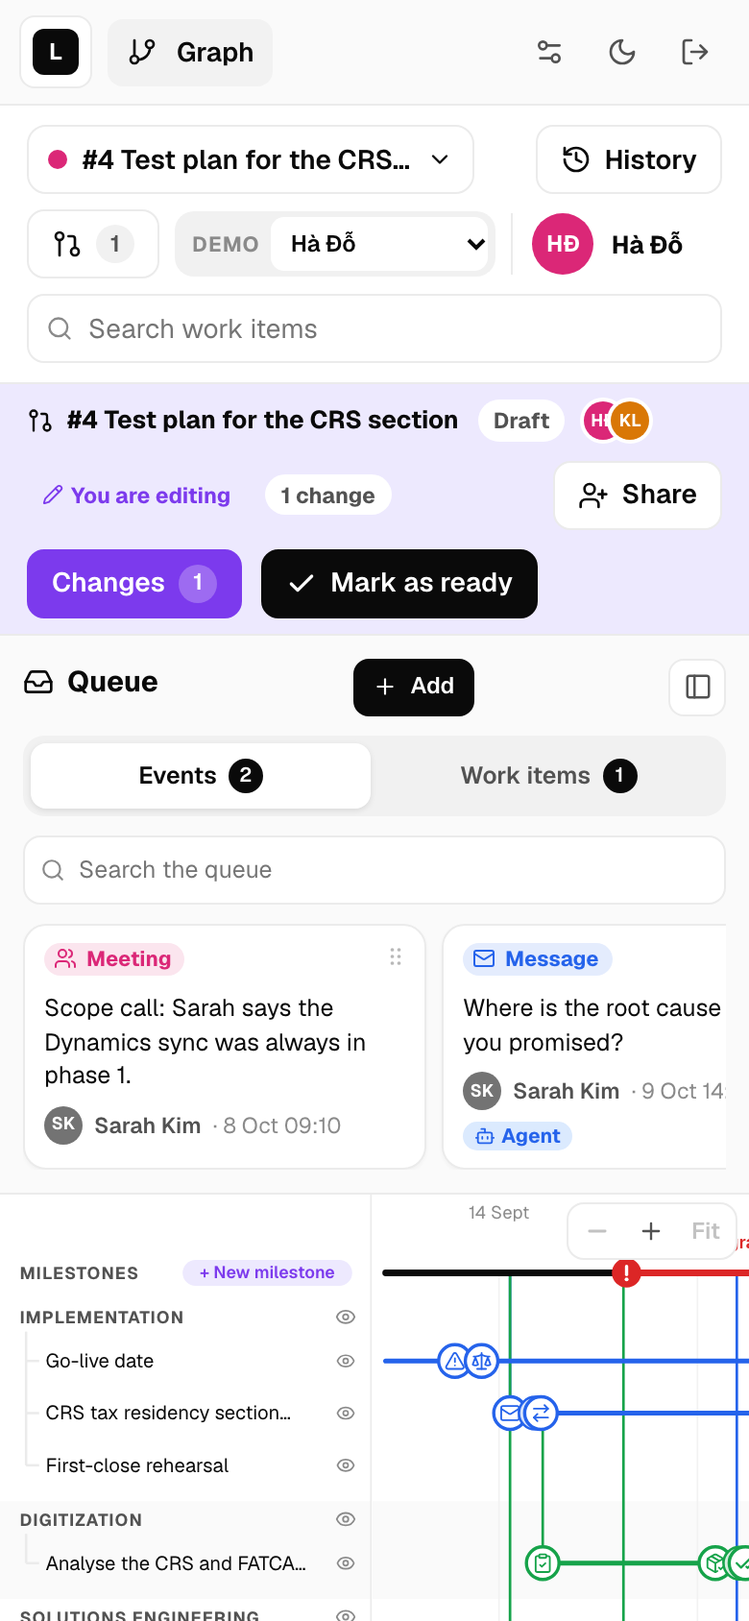
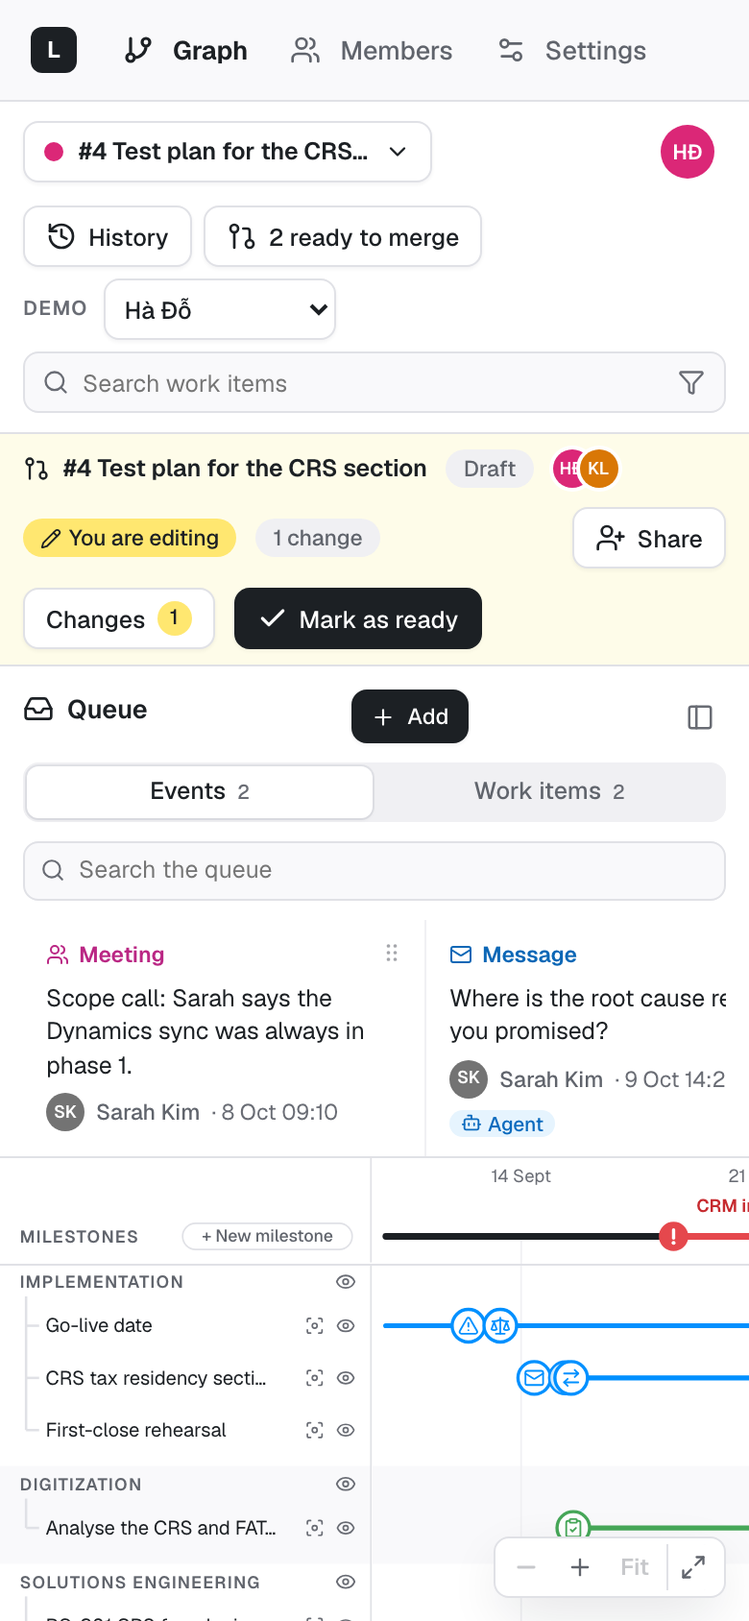
docs: members, roles, account menu and the new top bar in the spec and README
The screenshots are new, and a Members screenshot joins them.

diff --git a/docs/superpowers/specs/2026-10-16-event-tracker-design.md b/docs/superpowers/specs/2026-10-16-event-tracker-design.md
@@ -31,7 +31,7 @@ Promise Graph becomes an event tracker for a whole project. It shows what happen
    - The T line is a solid thin grey line. No line on the graph is dashed or dotted.
 9. No breakdown types and no day-count rules (no reply, accept, hedge or at-risk windows).
 10. Projects: a signed-in user creates a project (client, project name, teams one per line, optional first milestone with date). Each project has one Main graph. The creator owns Main. A team can also be added later through a change request.
-11. Main is read-only, and so is every view that the acting member cannot edit: someone else's draft, a ready, merged or closed CR, and a viewer. Such a view has no drag and drop that changes the graph (only the sideways move of decision 5), no edit buttons in pops and drawers, and no "+" buttons; pops and drawers show the information only. On entering Main, a notice at the top says "Main is read-only. To change it, create a change request." with a close × and Don't show again (the context bar holds New change request) (kept per user in `localStorage`). In other read-only CR views, the context bar says what to do (Ask to edit, Edit again, Review).
+11. Main is read-only, and so is every view that the acting member cannot edit: someone else's draft, a ready, merged or closed CR, and a viewer. Such a view has no drag and drop that changes the graph (only the sideways move of decision 5), no edit buttons in pops and drawers, and no "+" buttons; pops and drawers show the information only. On entering Main, a notice at the top says "Main is read-only. To change it, create a change request." with a close × and Don't show again (the top bar holds New change request) (kept per user in `localStorage`). The Main selector itself says that Main is read-only and names its owner with a small avatar ("Owner: Minh Trần"); Main has no second row with that sentence. In other read-only CR views, the context bar says what to do (Ask to edit, Edit again, Review).
 12. Change request (CR): statuses Draft, Ready, Merged, Closed. Numbered per project (#1, #2...). A CR view always shows the latest Main plus the CR's own changes. There is no Sync.
 13. Share: the current editor adds people with Can edit or Can view. Everyone in the project can view every CR.
 14. One editor at a time. The author edits first. A person with Can edit (or the author) presses Ask to edit; the current editor presses Hand over or Not now. The editor can also hand over without an ask (Share, Hand over). Asks wait; nothing moves editing automatically.
@@ -39,7 +39,8 @@ Promise Graph becomes an event tracker for a whole project. It shows what happen
 16. The owner of Main reviews a CR on a full-page review screen: Changes (one card per change with red before and green after lines, the event quote, the reason of a date move, a Viewed box, per-change comments, Show on graph), On the graph (Before and After, the picked change in a neutral grey band, changes marked in yellow), Conversation (timeline and comments). Owner actions on a Ready CR: Merge into Main, Request changes (back to Draft with a note), Close without merging.
 17. Clash: a CR change clashes when Main took a different change on the same spot after the CR change was made. Spots (keys): queue event placement `event:<id>`, queue item placement `item:<id>`, event `act:<id>`, work item `loop:<id>:title`, `loop:<id>:ms`, `loop:<id>:due`, milestone `ms:<id>:date`, `ms:<id>:name`. Two different fields of one work item never clash. An identical change already in Main is dropped silently. The owner picks Main or the CR for every clash before Merge; the merge records each pick (label, kept value, dropped value, source CR number, who).
 18. A merged or closed CR is read-only history. History lists every merge into Main, newest first: CR, author, merger, time, changes, resolutions, with See changes and Open graph. Open graph shows Main right after that merge.
-19. Demo: each signed-in user gets a sandbox with the Larkspur demo project. In a demo project, a "Demo · Working as" select switches the acting member (Minh Trần owns Main; Lan Phạm, Quang Nguyễn, Hà Đỗ, Khoa Lê). Outside demo projects, the acting member is the signed-in user's member. The top right shows the acting member: avatar, name, role.
+19. Demo: each signed-in user gets a sandbox with the Larkspur demo project. In a demo project, a "Demo · Working as" select switches the acting member (Minh Trần owns Main; Lan Phạm, Quang Nguyễn, Hà Đỗ, Khoa Lê). Only the person of the sandbox (a member of its workspace) sees the select; a person invited into a demo project works as themself. Outside demo projects, the acting member is the signed-in user's member. The top right shows the acting member (avatar, name and role; on a laptop, the avatar only). A click on it opens a menu with the name, Theme (System, Light, Dark) and Sign out.
+20. Members and roles (round 6, owner request 17 Oct): a project has an Owner (the owner of Main), Members and Viewers. The owner merges change requests and manages the members; a member creates change requests and adds to the Queue; a viewer reads the project only (no acting member, as decision 11). The Members page lists every member with the avatar, name, email when known and role. Only the owner invites a person by email (Member or Viewer), changes a role, makes another member the owner (a confirm modal; the old owner becomes a member) and removes a member (a confirm modal). The owner cannot remove themself or take away their own role. An invite waits as a member row with the email until a person signs in with that email; the sign-in links it. A project opens to the people of its workspace and to its own members that are not removed, so an invite opens one project, not the workspace.
 
 ## 3. Architecture
 
@@ -101,14 +102,14 @@ The queue in the state: `initial = base + all queue rows that are not dismissed`
 - `layoutTracker(state, view, marks?)` returns a render model: lanes, rows (with `depth` for the indent and `dimmed` for filter context), line segments with colours, event groups (icons stacked when closer than 16 units, with every id), milestone circles with 2 label levels, deadline diamonds on member rows (`deadlines`), ↖ chips for hidden sources (`chips`), trunk segments, one handoff mark per source row (`handoffs`, each with its `targets`), the T line and the axis ticks. It draws no stems and no curves. A row with a hidden parent or source gets a chip; a parent or source outside the focus or the filters gets none. `view = { hiddenRows, hiddenTeams, asOf, timeZone, zoom, offsets, windowStart, focus, filter }`, where `filter` is the `{ match, context }` that `matchRows` (`src/tracker/filter.ts`) gives. `focusTree` and `descendantsOf` (`src/tracker/focus.ts`) give the focus tree and its ids. An event is drawn at its time plus the offset of the viewer, clamped to its day and kept in the time order of its row and day (`drawnTimes` in `src/tracker/offsets.ts`, events with the same time in id order; `clampDrag` limits a sideways drag the same way, and when no whole minute fits between the two neighbours it takes the side of the earlier one), and the stacks use the drawn x. Default window: from `project.windowStart` (or 21 days before the earliest open item's start) to the later of `asOf + 7 days` and the latest planned date + 3 days.
 - Geometry: viewBox width 1060, a fixed label column of 228 units (`SIDE`), row 32, head 22, indent 12. At zoom 1 the label column and the time line fill the width. `zoom` (1 to 12) stretches only the time line, which scrolls on its own while the label column stays put. Everything above `TOP` (64: the axis, the T pill and the milestone line with its labels) is drawn in its own pinned band. The axis ticks every day once a day is 60 units wide. The graph scales to the container width.
 
-### 3.5 Storage (migrations `0004_tracker.sql` and `0006_event_offsets.sql`, Drizzle in `src/server/db/schema.ts`)
+### 3.5 Storage (migrations `0004_tracker.sql`, `0006_event_offsets.sql` and `0007_project_members.sql`, Drizzle in `src/server/db/schema.ts`)
 
 All tables carry `workspace_id` and `project_id` with the existing composite foreign key pattern (`inProject`).
 
 | Table | Columns |
 |---|---|
 | `tracker_projects` | `project_id` PK, `workspace_id`, `base` jsonb (TrackerState without queue), `time_zone` text default `Asia/Ho_Chi_Minh`, `window_start` date null, `as_of` timestamptz null (demo clock; null = now), `demo` bool, `owner_member_id` uuid |
-| `tracker_members` | `id` PK, `workspace_id`, `project_id`, `name`, `role_label`, `color`, `user_id` null FK users, `created_at` |
+| `tracker_members` | `id` PK, `workspace_id`, `project_id`, `name`, `role_label`, `color`, `user_id` null FK users, `email` null (lower case; an invite has an email and no `user_id`), `access` (`member`/`viewer`), `removed_at` null (a removed member keeps its row, because CRs and history name it), `created_at`; unique (`project_id`, `user_id`) and (`project_id`, `email`) |
 | `tracker_queue` | `id` PK, `workspace_id`, `project_id`, `kind` (`event`/`item`), `payload` jsonb, `added_by_member` null, `added_by_agent` bool, `created_at`, `dismissed_at` null |
 | `tracker_commits` | `workspace_id`, `project_id`, `rev` int, `cr_id`, `merged_by` member, `merged_at`, `ops` jsonb, `resolutions` jsonb; PK (`project_id`, `rev`) |
 | `tracker_crs` | `id` PK, `workspace_id`, `project_id`, `num` int, `title`, `author`, `editor` (members), `status` (`draft`/`ready`/`merged`/`closed`), `ops` jsonb, `revision` int, `created_at`, `updated_at`, `merged_rev`, `merged_by`, `merged_at`, `closed_by`, `closed_at`, `closed_rev`, `resolutions` jsonb; unique (`project_id`, `num`) |
@@ -122,13 +123,16 @@ Every write locks the project row (existing `lockProject`) or the CR row, checks
 ### 3.6 Members, acting member and permissions (`src/server/tracker/access.ts`)
 
 - The project creator gets a member linked to their user id; it is `owner_member_id`.
-- Acting member: in a demo project, the cookie `pg_act_<projectId>` names a member of that project; otherwise the member linked to the session user. With no member, the person can read but not write.
+- Access: a person opens a project through its workspace or through a member row of their own that is not removed (`projectOpenTo` in `src/server/db/tx.ts`, also in the identity store and the project list). Agent tokens follow the same rule.
+- Acting member: in a demo project, the cookie `pg_act_<projectId>` names a member of that project, and only a member of the project's workspace may set it; otherwise the member linked to the session user. Only an active member acts: not a viewer, not removed and not a pending invite. With no member, the person can read but not write.
 - Rules (server side, inside the transaction):
   - create CR, comment, add to Queue, dismiss a Queue card: any member.
   - add op, undo, remove op, share, mark ready, edit again: the CR's current editor, and the status allows it (draft for ops and ready; ready for edit again).
   - ask: a member with edit right (author or share `edit`) who is not the editor; cancel ask: the asker; hand over: the editor, to a member with edit right; not now: the editor.
   - merge, request changes, close without merging: the owner member; merge needs status `ready` and a pick for every clash; the server recomputes clashes and rejects stale picks.
-  - act as: only in demo projects, only members of that project.
+  - act as: only in demo projects, only active members of that project, only for a person of the project's workspace.
+  - list the members: anyone who opens the project. Invite, change a role, make another member the owner, remove: the owner member (`src/server/tracker/members.ts`). Removing a member or making them a viewer hands each open CR they edit back to its author, or to the owner, and drops their asks.
+  - sign-in: an invite whose email matches the signed-in email becomes that person's member, unless they already have one in that project.
 - Agents (MCP tokens) act as the token user's member and may only read and add to the Queue.
 
 ### 3.7 API (`src/app/api/v1/projects/[projectId]/tracker/...`)
@@ -145,16 +149,22 @@ Every write locks the project row (existing `lockProject`) or the CR row, checks
 | `POST /tracker/crs/[num]/actions` | `{action, ...}` where action is `ready`, `unready`, `ask`, `cancel-ask`, `handover {to}`, `decline {who}`, `share {memberId, permission}` (`permission: 'remove'` deletes), `comment {body, opIndex?}`, `merge {picks}`, `request-changes {note}`, `close` | payload |
 | `PUT /tracker/offsets/[eventId]` | `{minutes}`: an integer that keeps the event inside its day; 0 deletes the row | payload |
 | `POST /projects` | `{clientName, title, teams[], milestone?}` | the new project (tracker project, creator owns Main) |
+| `GET /members` | | `{canManage, members[]}` with `{id, name, label, email, role, pending, color, you}` |
+| `POST /members` | `{email, role}` where role is `member` or `viewer` | the new list, 201 |
+| `PATCH /members/[memberId]` | `{role}` where role is `owner`, `member` or `viewer` | the new list |
+| `DELETE /members/[memberId]` | | the new list |
 
-`TrackerPayload = { project: {id, title, clientName, timeZone, windowStart, asOf, demo, ownerMemberId}, members: Member[], me: Member | null, base, queue: {events, items}, commits: Commit[], crs: Cr[], offsets: Record<eventId, minutes> }` where `Cr` holds ops, shares, asks and comments, and `offsets` holds the day offsets of the signed-in person. The browser polls `GET /tracker` every 5 seconds while the page is visible, so asks and hand-overs show up without reload.
+`TrackerPayload = { project: {id, title, clientName, timeZone, windowStart, asOf, demo, ownerMemberId}, members: Member[], me: Member | null, canActAs: boolean, base, queue: {events, items}, commits: Commit[], crs: Cr[], offsets: Record<eventId, minutes> }` where `Cr` holds ops, shares, asks and comments, `Member.active` says that the member can act, and `offsets` holds the day offsets of the signed-in person. The browser polls `GET /tracker` every 5 seconds while the page is visible, so asks and hand-overs show up without reload.
 
 ### 3.8 UI (`src/components/tracker/`)
 
 Port the prototype screen by screen, with the app's tokens (`src/app/globals.css` has the same token names as the prototype) and a new `tracker.css`. Components:
 
 - `TrackerScreen`: state, polling, view = Main or CR, zoom, the reveal of a row, the Main notice.
-- `TopBar`: view switcher, the "N hidden" badge with its popup (`HiddenMenu`), Search work items, History, Change requests with count, demo select, acting member.
-- `ContextBar`: what the view is and what the person can do; `MainNotice`.
+- `TopBar`: view switcher (on Main: "Main", read-only and "Owner: <name>" with a small avatar), the "N hidden" badge with its popup (`HiddenMenu`), Search work items (it takes the free room, up to 440 px), History, one change requests button that reads "N ready to merge" or "Change requests" and opens the Change requests drawer, New change request (on Main only), demo select, and the account menu (`src/components/shell/AccountMenu.tsx`).
+- `ContextBar`: what the view is and what the person can do; `MainNotice`. On Main the row shows only when something waits for you (an ask to edit, your own draft); a CR view keeps its row (Share, Changes, Mark as ready, Ask to edit, Edit again, Review).
+- Rail (`src/components/shell/Rail.tsx`): Graph, Members and Settings at the top; at the bottom only the fold button, with a panel icon (Lucide `panel-left-close` and `panel-left-open`). The current page reads in bold, with no box.
+- Members page (`src/components/members/MembersScreen.tsx`) and Settings page: the tracker controls and type scale, a top bar with the page name, the project and the account menu, and flat rows with hairline dividers.
 - `QueuePanel`: only in a draft CR that the acting member edits; a toggle hides it and a "Queue N" button shows it again.
 - `TrackerGraph`: SVG from `layoutTracker`, zoom buttons (Zoom out, Zoom in ×1.5, Fit, Full view) floating at the bottom right of the graph area and Ctrl or Cmd with the wheel, pointer drag and drop with ghost and drop highlight, bin. The axis band (dates, T pill, milestone line) stays pinned at the top of the graph while the rows scroll, and follows the sideways scroll and the zoom of the time line. A click, Enter or Space on a row label or its line opens the details panel of the work item (no row pop); the eye of the row and the Hide button of the panel hide it. A `reveal` prop zooms to 2× when at fit, scrolls the row into view (left of an open drawer), and flashes it for 1.5 s. Full view makes the board cover the screen (the Fullscreen API on the board, or the whole window when the browser refuses) without the rail, the top bar, the context bar, the notice and the legend; drawers, pops and modals still work. The button (Full view, pressed while on) leaves it. Esc that reaches the page closes the top layer first (modal, move, pop, drawer, focus) and leaves full view last; in real full screen the browser takes the first Esc itself and leaves full screen with drawers and pops still open, and the board follows the `fullscreenchange`. A handoff list closes on Esc, Tab, a focus move out of it, and when its source mark goes away.
 - `Search`: a combobox that matches the title, the team name and the people (case and Vietnamese marks ignored), and lists up to 8 results with the team and a status chip. Arrow keys, Enter, Esc and a click work. A pick shows the row if it or its team is hidden, reveals it on the graph and opens its details. The filter control sits inside the search box (decision 3, Filters).
@@ -163,7 +173,7 @@ Port the prototype screen by screen, with the app's tokens (`src/app/globals.css
 - `Modals`: Add to queue, Place work item, Add event, New work item from event, New milestone, New team, Move the date, New change request, Share.
 - `Toast` with Undo, and `ReviewScreen` on its own route.
 
-Layout: on a desktop, the board fills the viewport. The bars and the legend stay put, and the graph canvas scrolls between them. A drawer covers the right side of the canvas at full height. Without the Queue, the graph takes the full width. Keyboard: Esc closes the top layer; every SVG target has `role="button"`, `tabindex=0`, an `aria-label`, and Enter or Space activates it. Phone width (390 px): no horizontal page scroll; the page scrolls, the search takes its own line, the Queue stacks above the graph and its cards scroll sideways.
+Layout: on a desktop, the board fills the viewport. The bars and the legend stay put, and the graph canvas scrolls between them. A drawer covers the right side of the canvas at full height. Without the Queue, the graph takes the full width. Keyboard: Esc closes the top layer; every SVG target has `role="button"`, `tabindex=0`, an `aria-label`, and Enter or Space activates it. Phone width (390 px): no horizontal page scroll; the page scrolls, the view selector and the account avatar share the first line, the actions wrap below, the search takes its own line, the Queue stacks above the graph and its cards scroll sideways.
 
 ### 3.9 MCP (`src/server/mcp/tools.ts`)
 
@@ -180,10 +190,10 @@ After the tracker screens work: delete the promise engine, records, inbox, evide
 ## 4. Testing
 
 - Unit (Vitest): ops (every op, skipped cases, ids), clashes (the owner rule: a change made after seeing the new Main value does not clash; identical changes drop; field-level keys), statuses (5 values per item and milestone, day boundaries in the time zone), time spent, search matching and order, layout (rows per team and the row tree, hidden rows and the chips of direct children, no connector lines, one handoff mark per source, day offsets and their time order, deadline diamonds on every member row, filters, colours, label levels, zoom), the sideways drag limit, describe and diff lines.
-- Integration (Vitest with `TEST_DATABASE_URL`): project creation and owner; queue add and dismiss; CR create, op append under the lock with `expectedRevision`; ask, hand over, not now, cancel; share; ready and edit again; merge without clash; merge with picks and the recorded resolutions; stale picks rejected; request changes; close; every permission rule rejects the wrong member; act-as only in demo projects; seed contents.
-- E2E (Playwright, run in a separate worktree, never against port 3100): the 13 prototype tasks of v8 section 3 (step 2 starts with New change request), the Main notice and Don't show again, no drag and no edit buttons on Main, the search for PG-203 and its details, milestone deadline diamonds, a row click that opens the details and the View in work item of an event, a handoff mark with several receivers, a filter by status and by text, the pinned axis after a scroll, full view, stacks, zoom and hiding, an event moved inside its day that stays after a reload, light theme, plus a phone-width overflow check.
+- Integration (Vitest with `TEST_DATABASE_URL`): project creation and owner; queue add and dismiss; CR create, op append under the lock with `expectedRevision`; ask, hand over, not now, cancel; share; ready and edit again; merge without clash; merge with picks and the recorded resolutions; stale picks rejected; request changes; close; every permission rule rejects the wrong member; act-as only in demo projects; seed contents; members (invite, sign-in link, viewer, removal, owner hand-over, owner-only writes, act-as only for the person of the sandbox) and their routes.
+- E2E (Playwright, run in a separate worktree, never against port 3100): the 13 prototype tasks of v8 section 3 (step 2 starts with New change request), the Main notice and Don't show again, no drag and no edit buttons on Main, the search for PG-203 and its details, milestone deadline diamonds, a row click that opens the details and the View in work item of an event, a handoff mark with several receivers, a filter by status and by text, the pinned axis after a scroll, full view, stacks, zoom and hiding, an event moved inside its day that stays after a reload, light theme, the rail order and fold icon, the account menu (theme and Sign out), the Main selector with its owner and the one change requests button, the Members page (invite, role, removal, owner hand-over, the read-only list of an invited person), Settings, plus a phone-width overflow check of the graph, a CR, a modal, the review page, Members and Settings.
 - Gates: `tsc --noEmit`, `eslint .`, `prettier --check .`, `vitest run`, Playwright. Capture each real exit code.
 
 ## 5. Out of scope
 
-Email and Slack sync; inviting real users by email; notifications outside the app; automatic date rules; revert and restore of Main; field-level merge inside one CR.
+Email and Slack sync; sending invite emails (an invite waits for the sign-in); notifications outside the app; automatic date rules; revert and restore of Main; field-level merge inside one CR.

diff --git a/README.md b/README.md
@@ -4,7 +4,7 @@ Promise Graph is an event tracker for a whole project. It shows what happened at
 
 People and their agents add events and work items to a Queue. In a change request, a person drags them onto the graph. Main is read-only: every change goes through a change request, and the owner of Main merges it.
 
-![The Larkspur demo project on Main: the read-only notice, teams, work items, events, milestones and their chips](docs/screenshots/tracker-main.png)
+![The Larkspur demo project on Main: the Main selector with read-only and the owner, the read-only notice, teams, work items, events and milestones](docs/screenshots/tracker-main.png)
 
 ## What it does
 
@@ -15,11 +15,14 @@ People and their agents add events and work items to a Queue. In a change reques
 - **Milestone deadlines.** Each work item in a milestone shows a diamond at the milestone date, in the milestone status colour. The first row of each team in that milestone also shows the milestone name when it has room. Its tooltip names the milestone, the date and the status, and says when the row makes the milestone late. A click on the diamond opens the milestone.
 - **Planned finish.** Each work item has a Planned finish date and the same 5 statuses. To move a Planned finish or a milestone date, you must write a reason. The app keeps the first date and every move: who, when, from, to and why.
 - **Queue.** New events and work items wait in the Queue. People add them with **Add**, and agents add them through MCP. The Queue shows only in a change request that you edit. Drag a card onto a work item or a team to place it. Every drag also has a click way. The Queue toggle hides the Queue, so the graph gets the full width.
-- **Main is read-only.** On Main, the graph and its pops show information only: no drag that changes the graph, no edit buttons. A notice at the top says so; **New change request** is in the bar above it. **Don't show again** hides the notice for you. A merged or closed change request and a change request that someone else edits are read-only too.
+- **Main is read-only.** On Main, the graph and its pops show information only: no drag that changes the graph, no edit buttons. The Main selector at the top left says read-only and shows the owner of Main. A notice below the top bar says so too; **New change request** is in the top bar. **Don't show again** hides the notice for you. A merged or closed change request and a change request that someone else edits are read-only too.
+- **One change requests button.** The button beside History reads **N ready to merge**, or **Change requests** when nothing is ready. It opens the list of change requests.
 - **Search.** Type in **Search work items** at the top right. The search matches the title, the team and the people of each work item. Pick a result with the arrow keys and Enter, or with a click. A click on a row of the graph opens the same details panel. The graph shows the row again if it is hidden, zooms to it and flashes it. The details panel opens: the status, the planned finish with every move and its reason, the start, the finish, the time spent in hours and days, the parent, the sources and all the events. A click on an event opens its pop on the graph.
 - **Your own event positions.** Drag an event left or right to move its icon inside its day, for example to pull a stack apart. This works in every view, Main included. The position is yours only, stays after a reload, and never changes the event time. **Reset position** in the event pop puts it back.
 - **Filters.** The filter button in the search box narrows the graph by status, team, milestone and person. Typed text narrows it too, with the same matches as the search list. The parents of a matching row stay as dimmed context. **Clear filters** shows every row again. Filters are yours only and are not saved.
 - **Zoom and full view.** The zoom buttons at the bottom right of the graph stretch the time line. Ctrl (or Cmd) and the mouse wheel also zoom. **Fit** shows the whole window again. The full view button makes the graph fill the screen; press it again or Esc to leave. The dates and the milestone line stay at the top while the rows scroll.
+- **Members.** The **Members** page lists the people of the project with their role. The owner of Main invites a person by email as a Member or a Viewer, changes a role, makes another member the owner, and removes a member. An invite waits until that person signs in with Google using the same email; then the project opens for them. A member creates change requests; a viewer reads only. Other people see the list read-only.
+- **Account menu.** A click on your avatar at the top right opens a menu with the theme (System, Light or Dark) and **Sign out**.
 - **Change requests.** A change request is a Draft, Ready, Merged or Closed. It always shows the latest Main plus its own changes. **Share** gives a person Can edit or Can view. Everyone in the project can view every change request.
 - **One editor at a time.** A person with Can edit presses **Ask to edit**. The current editor presses **Hand over** or **Not now**.
 - **Ready.** **Mark as ready** locks the change request. The editor presses **Edit again** to unlock it.
@@ -36,9 +39,12 @@ The app never calls an AI model and holds no provider key.
 | ![The review of #3 with one clash with Main on the PG-203 name](docs/screenshots/review-clash.png) | ![Main history with the merges and the resolved clash](docs/screenshots/history.png) |
 | The review page. **Merge into Main** stays off until the owner picks a version for the clash. | History records each merge and each resolved clash. |
 
-<img src="docs/screenshots/phone.png" alt="The tracker at phone width: a change request with the Queue above the graph" width="300">
+| | |
+|---|---|
+| ![The Members page: the owner, four members, an invite that waits for the sign-in, and the invite form](docs/screenshots/members.png) | <img src="docs/screenshots/phone.png" alt="The tracker at phone width: a change request with the Queue above the graph" width="300"> |
+| The Members page of the owner. The invite waits until that person signs in. | A change request at phone width. |
 
-The screenshots come from a local development server on 16 October 2026, with the seeded sandbox and the light theme. The desktop shots use a 1440 x 900 viewport; the phone shot uses a 390 x 844 viewport.
+The screenshots come from a local development server on 17 October 2026, with the seeded sandbox and the light theme. The desktop shots use a 1440 x 900 viewport; the phone shot uses a 390 x 844 viewport.
 
 The prototype is [docs/design/2026-10-16-event-tracker-v8.html](docs/design/2026-10-16-event-tracker-v8.html). The design is [docs/superpowers/specs/2026-10-16-event-tracker-design.md](docs/superpowers/specs/2026-10-16-event-tracker-design.md).
 
@@ -46,7 +52,7 @@ The prototype is [docs/design/2026-10-16-event-tracker-v8.html](docs/design/2026
 
 Your first sign-in creates a private sandbox: the fictional Larkspur Capital onboarding project with 7 teams, 2 milestones, a Queue and 4 change requests ([fixtures/README.md](fixtures/README.md)). The demo clock stands at 9 October 2026, 18:00 (Asia/Ho_Chi_Minh).
 
-Use the **Demo** select at the top right to change who you work as. Minh Trần owns Main. Lan Phạm, Quang Nguyễn, Hà Đỗ and Khoa Lê are members. The select shows only in the demo project. In your own projects, you work as yourself.
+Use the **Demo** select at the top right to change who you work as. Minh Trần owns Main. Lan Phạm, Quang Nguyễn, Hà Đỗ and Khoa Lê are members. The select shows only in your own demo project. In other projects, and in a demo project that you were invited into, you work as yourself.
 
 Main opens with a notice that it is read-only. Press **×** to close it for now, or **Don't show again**.
 
@@ -72,7 +78,7 @@ Your own agent (for example Claude Code) connects to `/mcp` with a project token
 
 ![Settings: the two agent permissions, the MCP snippet and a created token](docs/screenshots/agent-tokens.png)
 
-1. Open **Settings** in a project and create a token. Keep both permissions: **Read the project** (`project:read`) and **Add to the Queue** (`queue:add`). Copy the secret; the app shows it once.
+1. Open **Settings** in the rail of a project and create a token. Keep both permissions: **Read the project** (`project:read`) and **Add to the Queue** (`queue:add`). Copy the secret; the app shows it once.
 2. Add the server to your MCP client:
 
    ```json
